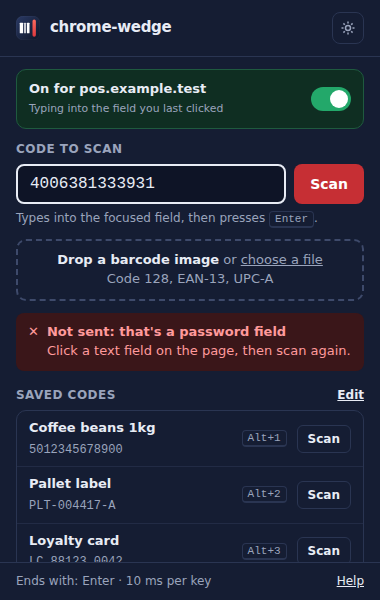
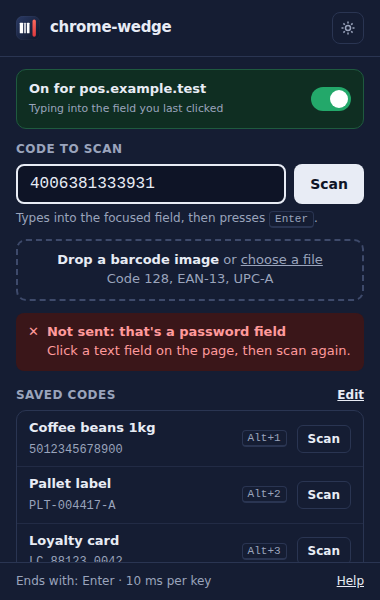
design: Oh, you're right, Tabrez, sorry about both!
changed: S01 Popup, S02 Welcome and debugging bar explanation, S03 Settings
UX spec updated

Changed region(s): [[0.7526, 0.27, 0.9553, 0.36]]

diff --git a/design/ux.md b/design/ux.md
@@ -22,7 +22,7 @@ Developers and QA testing barcode-driven web apps (point of sale, warehouse, inv
 Rules: a scan is only sent to the focused editable element of the tab the user switched on, on an allowed site, and never to `input[type=password]`. Nothing is sent from an image until the user presses Scan.
 
 ## Design system
-**Theme**: dark only. Every screen (popup, welcome, settings) uses the same dark palette; it sits naturally beside Chrome's dark toolbar and keeps the red cursor as the one bright accent.
+**Theme**: dark only. Every screen (popup, welcome, settings) uses the same dark palette; it sits naturally beside Chrome's dark toolbar and keeps the red cursor as the one bright accent. Buttons are light, not red, so red never competes with the mark or reads as an error.
 
 **Colours**
 | Token | Hex | Use |
@@ -34,13 +34,13 @@ Rules: a scan is only sent to the focused editable element of the tab the user s
 | border | #2A3552 | dividers, inputs at rest, secondary buttons and the selected step badge |
 | border-strong | #3E4A6B | dashed drop zone, settings fields, switch off |
 | row-divider | #222B45 | lines between list rows |
-| laser | #E0393E | the mark's cursor bar, accents (not text) |
-| laser-strong | #C62F34 | primary buttons with white text (5.4:1) |
+| laser | #E0393E | the mark's cursor bar, small accents such as the typing caret (never button fills, never text) |
+| primary | #E8ECF5 fill, #0E1426 text (15:1); hover #FFFFFF | primary buttons |
 | focus | #FF6B5E | 2px focus ring |
 | success | #6EE0A6 on #0F2E22 (edge #1F5A3F) | sent, site on; switch on #23A86A |
 | warning | #F5C46B on #33250D | no field, detached |
 | error | #FF9A9C on #3A1619 | refused, unreadable, Remove/Delete links |
-| disabled | #6B7591 text, #4A2A31 primary button | site off |
+| disabled | #6B7591 text on #2A3552 (primary button) | site off |
 
 A dropped barcode thumbnail stays black on white: it shows the image as it is.
 
@@ -48,14 +48,14 @@ A dropped barcode thumbnail stays black on white: it shows the image as it is.
 
 **Spacing**: 4px base; 12/16px popup padding; 8–10px radii on controls, 14–16px on cards.
 
-**Components**: primary button (laser-strong, white text, 40px tall in popup); secondary button (border fill, text colour); site switch (green on, border-strong off, white knob); dashed drop zone; result line (icon + bold summary + detail); saved-code row with `kbd` shortcut; segmented control (suffix; selected segment is text-coloured with bg-coloured text).
+**Components**: primary button (light fill #E8ECF5 with ink text #0E1426, 40px tall in popup; one per screen); secondary button (border fill, text colour); site switch (green on, border-strong off, white knob); dashed drop zone; result line (icon + bold summary + detail); saved-code row with `kbd` shortcut; segmented control (suffix; selected segment is text-coloured with bg-coloured text).
 
 **Tone of voice**: short, plain, scanner vocabulary ("scan", "prefix", "ends with Enter"). Tell the user what happened and what to do next; no blame, no jargon like "CDP" or "debugger attached" in the popup.
 
 **Logo**: barcode bars that end in a tall red text cursor: a scan turning into typing. Modern flat style: three white bars of barcode widths (9/4/7 of 64), equal height with nearly square ends so they read as a barcode and not an audio meter, then a pill-shaped cursor with a coral-to-laser gradient that stands taller than the bars. All on a squircle tile (radius 18/64) with a deep ink gradient (#2A3A66 to #0E1526) and a faint white edge so it holds on dark toolbars. Only four shapes, so it reads at 16px. `mark.svg` is also the app icon. `logo.svg` is the mark beside "chrome-wedge" in heavy system sans (800, tight tracking) with a red hyphen. Use the mark alone in the popup header and as the icon; the full logo on the store page and S02. Don't recolour the cursor or place the mark without its tile. `logo.svg` has an ink (#16213A) wordmark for light backgrounds such as the store listing; on the product's dark screens the wordmark is set in text colour (#E8ECF5), and the red hyphen stays.
 
 ## Accessibility
-- Text contrast at least 4.5:1 on the dark surfaces (see the colour table). White on #E0393E is only 4.4:1, so buttons use #C62F34 (5.4:1).
+- Text contrast at least 4.5:1 on the dark surfaces (see the colour table). Primary buttons are ink #0E1426 on #E8ECF5 (15:1). Red is kept off buttons and text so the logo's cursor stays the one red thing.
 - Every focusable control shows a 2px #FF6B5E focus ring; the dark theme never relies on the browser's default ring.
 - Popup focus order: site switch → code input (autofocus) → Scan → drop zone (Enter/Space opens file picker) → saved code Scan buttons → Edit → Help → settings.
 - Site switch is a `role="switch"` with `aria-checked`; results announce via `role="status"`/`role="alert"`.

diff --git a/design/screens/S02-welcome/spec.md b/design/screens/S02-welcome/spec.md
@@ -7,7 +7,7 @@ size: 1280x800
 
 ## Content and actions
 - Headline and one paragraph on why the bar appears and that it cannot be hidden.
-- An illustration of Chrome's debugging bar, with the warning: leaving it open is required; closing it or pressing Cancel stops scans on that tab.
+- An illustration of Chrome's debugging bar above a sample app page (an "Item code" field with a scan typed in), with the warning: leaving it open is required; closing it or pressing Cancel stops scans on that tab.
 - Three steps: turn it on for a site (S01), click a field, scan.
 - Safety summary: focused field only, switched-on tab only, never password fields.
 - **Got it**: closes the tab and marks first run done. "Change typing settings" opens S03.
@@ -22,3 +22,4 @@ size: 1280x800
 - Created for the first UX.
 - Header mark updated to the modernised logo (rounded bars, gradient tile, glowing cursor), as requested in review.
 - Dark theme throughout (all states), header wordmark set like the logo, header mark synced with mark.svg; requested in review.
+- Bar illustration: the white striped page area replaced with a dark mock page showing an "Item code" field with a typed scan; warning callout fixed (invalid background colour, odd right alignment); Got it is now the light primary button; requested in review.

diff --git a/design/screens/S03-settings/spec.md b/design/screens/S03-settings/spec.md
@@ -23,3 +23,4 @@ size: 1280x800
 - Created for the first UX.
 - Header mark updated to the modernised logo (rounded bars, gradient tile, glowing cursor), as requested in review.
 - Dark theme throughout (all states), header wordmark set like the logo, header mark synced with mark.svg; requested in review.
+- Primary button changed from red to a light fill with ink text, so red stays on the logo's cursor only; requested in review.

diff --git a/design/screens/S01-popup/spec.md b/design/screens/S01-popup/spec.md
@@ -33,3 +33,4 @@ size: 380x600
 - Created for the first UX.
 - Header mark updated to the modernised logo (rounded bars, gradient tile, glowing cursor), as requested in review.
 - Dark theme throughout (all states), header wordmark set like the logo, header mark synced with mark.svg; requested in review.
+- Primary button changed from red to a light fill with ink text, so red stays on the logo's cursor only; requested in review.
